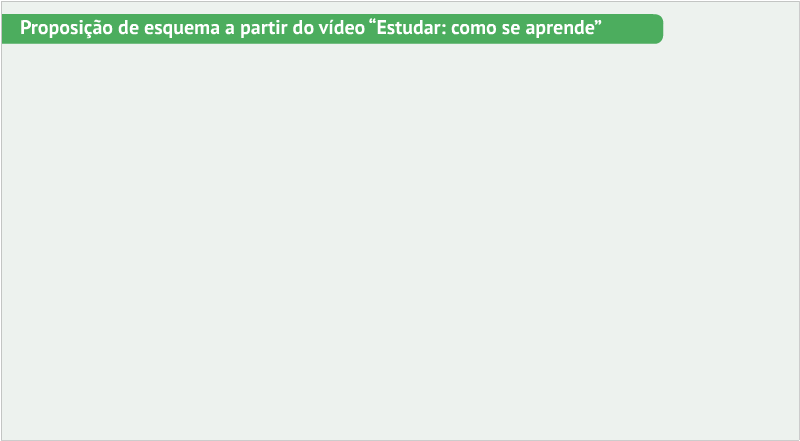
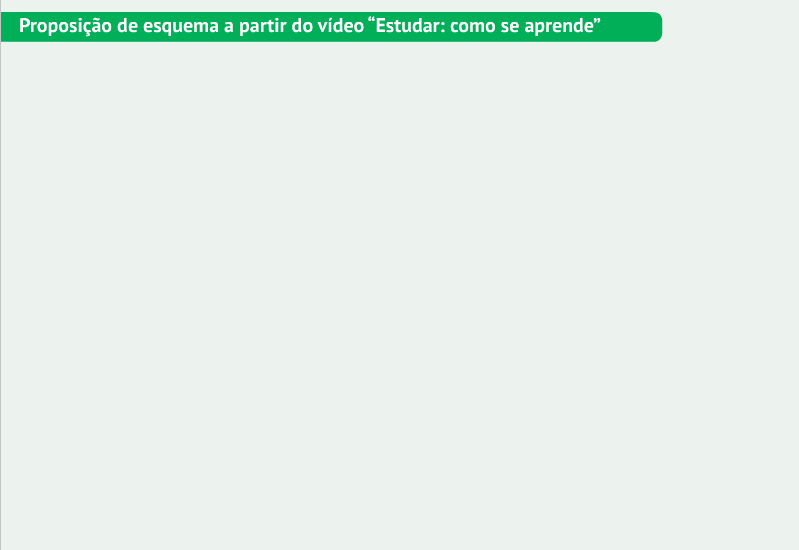
V.4

Changed region(s): [[0.0, 0.0, 0.8411, 0.1179], [0.9912, 0.0, 1.0, 1.0], [0.0, 0.9728, 0.03, 1.0]]

diff --git a/js/Play2.js b/js/Play2.js
@@ -1,5 +1,5 @@
 
-Atividade1.Play = function(){ 
+Atividade1.Play2 = function(){ 
 }; 
 
 var linha ;
@@ -7,24 +7,22 @@ var linhas;
 var linhasTotais;
 var containerDeLinhas = [];
 
-Atividade1.Play.prototype = { 
+Atividade1.Play2.prototype = { 
 
 //**********************************PRELOAD*********************************************//
 preload : function(){ 
 	
-	game.load.image('drag1', 'imgs/drag1.png');
-	game.load.image('drag2', 'imgs/drag2.png');
-	game.load.image('drag3', 'imgs/drag3.png');
-	game.load.image('drag4', 'imgs/drag4.png');
-	game.load.image('drag5', 'imgs/drag5.png');
-	game.load.image('drag6', 'imgs/drag6.png');
-	game.load.image('drag7', 'imgs/drag7.png');
-	game.load.image('drag8', 'imgs/drag8.png');
-	game.load.image('drag9', 'imgs/drag9.png');
-	game.load.image('drag10', 'imgs/drag10.png');
-	game.load.image('drag11', 'imgs/drag11.png');
-	game.load.image('drag12', 'imgs/drag12.png');
-	game.load.image('drag13', 'imgs/drag13.png');
+	game.load.image('drag1', 'imgs/drag14.png');
+	game.load.image('drag2', 'imgs/drag15.png');
+	game.load.image('drag3', 'imgs/drag16.png');
+	game.load.image('drag4', 'imgs/drag17.png');
+	game.load.image('drag5', 'imgs/drag18.png');
+	game.load.image('drag6', 'imgs/drag19.png');
+	game.load.image('drag7', 'imgs/drag20.png');
+	game.load.image('drag8', 'imgs/drag21.png');
+	game.load.image('drag9', 'imgs/drag22.png');
+	game.load.image('drag10', 'imgs/drag23.png');
+
 	game.load.image('enviar', 'imgs/enviar.png');
 	
 	
@@ -63,9 +61,7 @@ create : function(){
 	drag8 = game.add.sprite(306, 385, 'drag8');
 	drag9 = game.add.sprite(301, 70,  'drag9');
 	drag10 = game.add.sprite(424, 204, 'drag10');
-	drag11 = game.add.sprite(530, 105, 'drag11');
-	drag12 = game.add.sprite(472, 105, 'drag12');
-	drag13 = game.add.sprite(372, 350, 'drag13');
+	
 	
 		
 	
@@ -87,9 +83,7 @@ create : function(){
 	drag8.inputEnabled = true;
 	drag9.inputEnabled = true;
 	drag10.inputEnabled = true;
-	drag11.inputEnabled = true;
-	drag12.inputEnabled = true;
-	drag13.inputEnabled = true;
+	
 	
 	enviar.inputEnabled = true;
 	
@@ -110,9 +104,7 @@ create : function(){
 	drag8.input.enableDrag(true);
 	drag9.input.enableDrag(true);
 	drag10.input.enableDrag(true);
-	drag11.input.enableDrag(true);
-	drag12.input.enableDrag(true);
-	drag13.input.enableDrag(true);
+	
 	
 	
 	
@@ -125,9 +117,7 @@ create : function(){
      'speedOut': 300,
      'autoDimensions': true,
      'centerOnScroll': true,
-	 'closeClick'  : false,
-	 
-     'href' : '#feedback'
+     'href' : '#feedback2'
   });
 }
 	
@@ -235,4 +225,4 @@ create : function(){
 
 
 /*Esta função coloca os conteúdos daqui no state*/
-game.state.add('Play',Atividade1.Play);
+game.state.add('Play2',Atividade1.Play2);

diff --git a/index.html b/index.html
@@ -7,7 +7,9 @@
 <script src="js/phaser-arcade-physics.js"></script>
 <script src="js/Game.js"></script>
 <script src="js/Play.js"></script>
+<script src="js/Play2.js"></script>
 <script src="js/Feedback.js"></script>
+<script src="js/Fim.js"></script>
 <script src="js/jquery.fancybox.js"></script>
 <link rel="stylesheet" type="text/css" href="css/jquery.fancybox.css">
 
@@ -22,6 +24,16 @@ margin:0px;
 #feedback{
 display: none;
 z-index: 2;
+}
+#feedback2{
+display: none;
+z-index: 2;
+}
+#proximo_esquema{
+text-align: right;
+}	
+#finalizar_esquema{
+text-align: right;
 }	
 
 </style>
@@ -31,7 +43,20 @@ z-index: 2;
 <div id="game" ></div>
 </body>
 
-<div id="feedback" > <img src="imgs/feedback1.png"></div>
+<div id="feedback" ><p>Compare seu esquema com este gabarito</p> <img src="imgs/feedback1.png"><p id="proximo_esquema"><img src="imgs/proximo_esquema.png"></p></div>
+<div id="feedback2" ><p>Compare seu esquema com este gabarito</p> <img src="imgs/feedback2.png"><p id="finalizar_esquema"><img src="imgs/finalizar_esquema.png"></div>
+<script>
+$("#proximo_esquema").click(function() {
+game.state.start('Play2');
+$.fancybox.close();
+});
 
+$("#finalizar_esquema").click(function() {
+
+game.state.start('Fim');
+$.fancybox.close();
+
+});
+</script>
 
 </html>

diff --git a/js/Fim.js b/js/Fim.js
@@ -1,0 +1,49 @@
+
+Atividade1.Fim = function(){ 
+}; 
+
+
+
+Atividade1.Fim.prototype = { 
+
+//**********************************PRELOAD*********************************************//
+preload : function(){ 
+	
+
+	game.load.image('bg', 'imgs/bg.png');
+	game.load.image('feedback_final', 'imgs/feedback_final.png');
+
+	
+}, 
+
+
+//**********************************CREATE*********************************************//
+
+
+create : function(){ 
+	
+// Add all sprites
+	bg = game.add.sprite(0, 0, 'bg');
+	bg = game.add.sprite(180, 250, 'feedback_final');
+	
+	
+	   
+	
+	},	 
+
+//**********************************UPDATE****************************************************//		
+    update : function(){ 
+
+        }
+
+
+
+	},
+	
+//**********************************FIM DE UPDATE*********************************************//
+	
+		
+
+
+/*Esta função coloca os conteúdos daqui no state*/
+game.state.add('Fim',Atividade1.Fim);

diff --git a/js/game.js b/js/game.js
@@ -15,7 +15,7 @@ Atividade1.Feedback = function(){ };
  
 
 //Global configuration
-var game = new Phaser.Game(800, 450, Phaser.CANVAS, 'game', { preload: preload, create: create, update: update});
+var game = new Phaser.Game(800, 550, Phaser.CANVAS, 'game', { preload: preload, create: create, update: update});
 
 function preload(){
 
